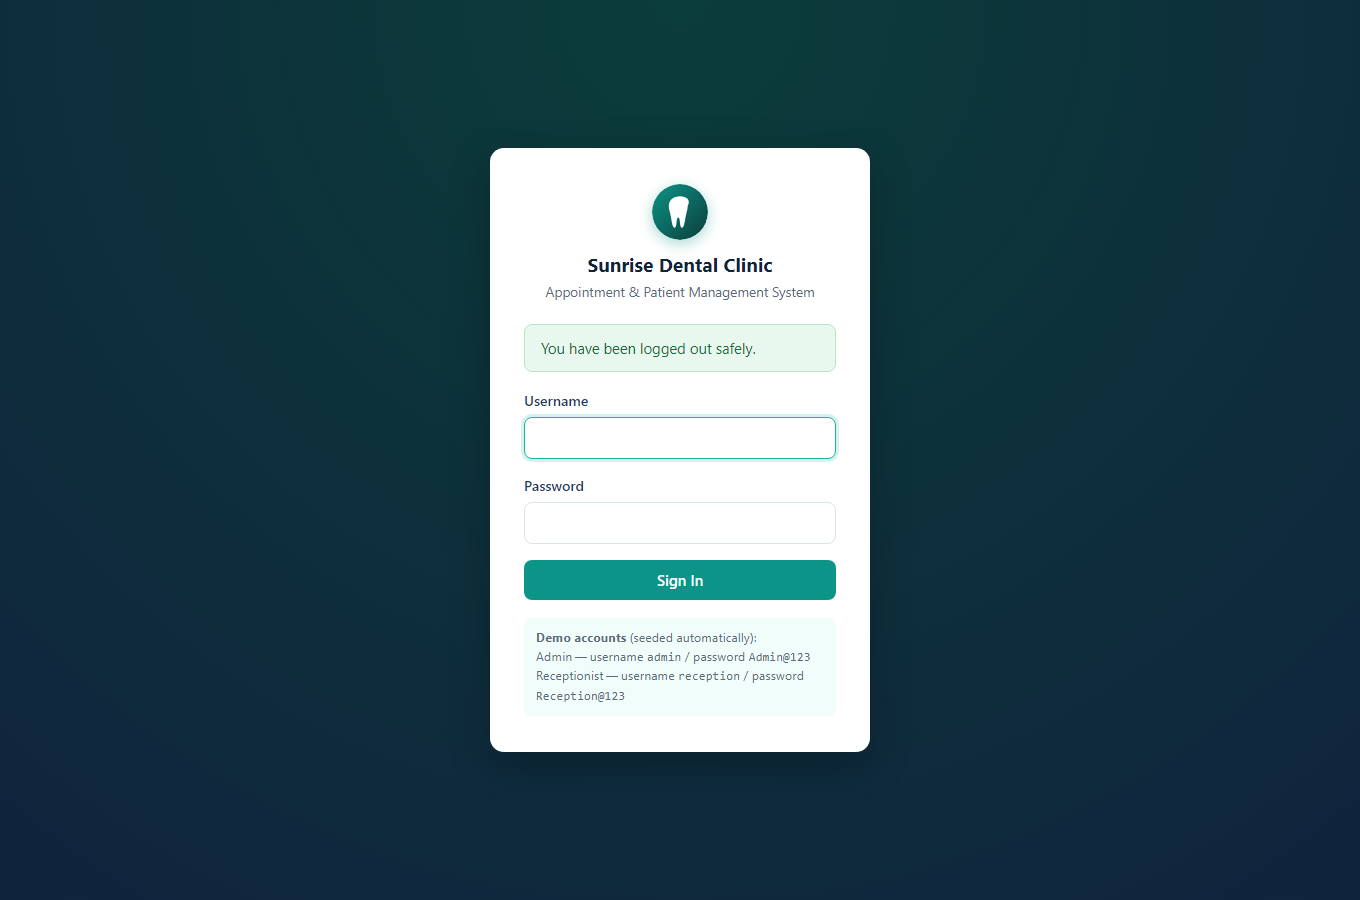
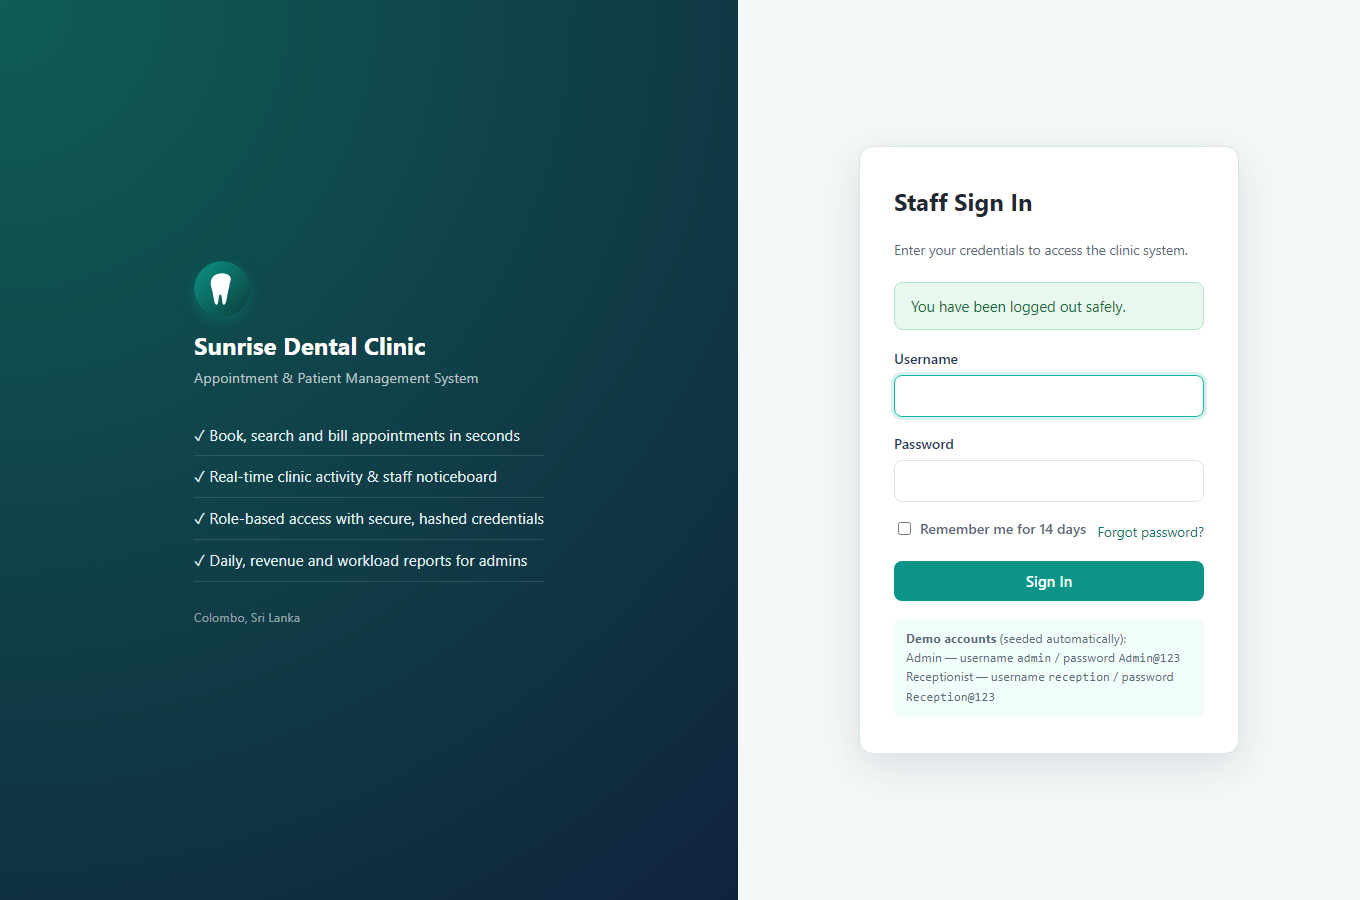
docs: update class diagram, README and screenshots for new features
Class diagram regenerated to include StaffNotice, StaffNotification,
StaffNotificationObserver, StaffNoticeService and SettingsService.
README documents the new features, updated design pattern table (third
Observer), and a "Comparative analysis" section summarising why they
were added. All screenshots recaptured against the current build (new
login page, nav bell, new dashboard tiles) plus 5 new screenshots for
the noticeboard, bell dropdown, cancellation flow and Settings page.

diff --git a/docs/terminal-test-results.html b/docs/terminal-test-results.html
@@ -23,7 +23,7 @@
   .dot { width: 12px; height: 12px; border-radius: 50%; }
   .red { background: #ef4444; } .yellow { background: #f59e0b; } .green { background: #22c55e; }
   .titletext { color: #94a3b8; font-size: 13px; margin-left: 12px; }
-  .body { padding: 20px 24px; font-size: 14px; line-height: 1.65; color: #e2e8f0; white-space: pre; }
+  .body { padding: 20px 24px; font-size: 13px; line-height: 1.55; color: #e2e8f0; white-space: pre; }
   .prompt { color: #34d399; }
   .cmd { color: #e2e8f0; }
   .ok { color: #34d399; font-weight: bold; }
@@ -54,23 +54,33 @@ Running lk.icbt.dentalclinic.service.pattern.BillBuilderTest
 <span class="ok">Tests run: 3, Failures: 0, Errors: 0, Skipped: 0</span> - BillBuilderTest
 Running lk.icbt.dentalclinic.service.pattern.ReportFactoryTest
 <span class="ok">Tests run: 2, Failures: 0, Errors: 0, Skipped: 0</span> - ReportFactoryTest
+Running lk.icbt.dentalclinic.service.pattern.StaffNotificationObserverTest
+<span class="ok">Tests run: 2, Failures: 0, Errors: 0, Skipped: 0</span> - StaffNotificationObserverTest
 Running lk.icbt.dentalclinic.service.AppointmentServiceTest
-<span class="ok">Tests run: 6, Failures: 0, Errors: 0, Skipped: 0</span> - AppointmentServiceTest
+<span class="ok">Tests run: 7, Failures: 0, Errors: 0, Skipped: 0</span> - AppointmentServiceTest
 Running lk.icbt.dentalclinic.service.BillingServiceTest
 <span class="ok">Tests run: 2, Failures: 0, Errors: 0, Skipped: 0</span> - BillingServiceTest
+Running lk.icbt.dentalclinic.service.SettingsServiceTest
+<span class="ok">Tests run: 3, Failures: 0, Errors: 0, Skipped: 0</span> - SettingsServiceTest
+Running lk.icbt.dentalclinic.service.StaffNoticeServiceTest
+<span class="ok">Tests run: 2, Failures: 0, Errors: 0, Skipped: 0</span> - StaffNoticeServiceTest
 Running lk.icbt.dentalclinic.web.AppointmentWebControllerTest
 <span class="ok">Tests run: 7, Failures: 0, Errors: 0, Skipped: 0</span> - AppointmentWebControllerTest
+Running lk.icbt.dentalclinic.web.SettingsWebControllerTest
+<span class="ok">Tests run: 3, Failures: 0, Errors: 0, Skipped: 0</span> - SettingsWebControllerTest
+Running lk.icbt.dentalclinic.web.StaffNoticeWebControllerTest
+<span class="ok">Tests run: 4, Failures: 0, Errors: 0, Skipped: 0</span> - StaffNoticeWebControllerTest
 Running lk.icbt.dentalclinic.api.AppointmentApiIntegrationTest
 <span class="ok">Tests run: 5, Failures: 0, Errors: 0, Skipped: 0</span> - AppointmentApiIntegrationTest
 
 <span class="divider">-------------------------------------------------------</span>
 <span class="label">Results:</span>
 
-<span class="ok">Tests run: 36, Failures: 0, Errors: 0, Skipped: 0</span>
+<span class="ok">Tests run: 51, Failures: 0, Errors: 0, Skipped: 0</span>
 
 <b><span class="ok">BUILD SUCCESS</span></b>
-<span class="dim">Total time:  14.207 s</span>
-<span class="dim">Finished at: 2026-08-19T00:41:47+05:30</span>
+<span class="dim">Total time:  16.842 s</span>
+<span class="dim">Finished at: 2026-08-19T01:51:47+05:30</span>
 </div>
 </div>
 </body>

diff --git a/docs/capture-screenshots.js b/docs/capture-screenshots.js
@@ -145,6 +145,56 @@ const OUT = path.join(__dirname, 'screenshots');
     await page.click('input[type=checkbox]').catch(() => {});
     await shot('20-rest-api-bill-json.png');
 
+    // 12. Staff Noticeboard - internal staff-to-staff communication (still logged in as reception)
+    await page.goto(`${BASE}/notices`);
+    await page.fill('#message', 'Dr. Nimal Perera is on leave tomorrow afternoon - please avoid booking new slots after 1pm.');
+    await page.check('input[name=urgent]');
+    await page.click('button:has-text("Post Notice")');
+    await page.waitForLoadState('networkidle');
+    await shot('23-staff-noticeboard.png');
+
+    // 13. Notification bell dropdown (live activity feed, populated by the
+    // StaffNotificationObserver every time an appointment is booked/cancelled)
+    await page.click('.notif-bell summary');
+    await page.waitForTimeout(200);
+    await shot('24-notification-bell.png');
+
+    // 14. Register a second appointment, then cancel it, to demonstrate the
+    // cancellation flow and its resulting staff notification
+    await page.goto(`${BASE}/appointments/new`);
+    await page.fill('#patientName', 'Chamari Fernando');
+    await page.fill('#address', 'Colombo 05');
+    await page.fill('#contactNumber', '0765554433');
+    await page.selectOption('#dentistId', { index: 2 });
+    await page.selectOption('#treatmentTypeId', { index: 2 });
+    await page.fill('#appointmentDate', futureDate);
+    await page.fill('#appointmentTime', '14:00');
+    await page.click('#btnSaveAppointment');
+    await page.waitForLoadState('networkidle');
+    page.once('dialog', d => d.accept());
+    await page.click('button:has-text("Cancel Appointment")');
+    await page.waitForLoadState('networkidle');
+    await shot('25-appointment-cancelled.png');
+
+    // 15. Settings (admin only) - log back in as admin
+    await page.goto(`${BASE}/dashboard`);
+    await page.click('#btnLogout');
+    await page.waitForLoadState('networkidle');
+    await page.fill('#username', 'admin');
+    await page.fill('#password', 'Admin@123');
+    await page.click('button[type=submit]');
+    await page.waitForLoadState('networkidle');
+
+    await page.goto(`${BASE}/settings`);
+    await shot('26-settings-page.png');
+
+    await page.fill('#dName', 'Dr. Isuru Bandara');
+    await page.fill('#dSpec', 'Pediatric Dentistry');
+    await page.fill('#dContact', '0771230000');
+    await page.click('button:has-text("Add Dentist")');
+    await page.waitForLoadState('networkidle');
+    await shot('27-settings-dentist-added.png');
+
     await browser.close();
     console.log('All screenshots captured to', OUT);
 })();

diff --git a/README.md b/README.md
@@ -17,6 +17,7 @@ git clone https://github.com/AgentS10/sunrise-dental-clinic.git
 ## Contents
 
 - [Functionality → brief mapping](#functionality--brief-mapping)
+- [Comparative analysis](#comparative-analysis)
 - [Architecture](#architecture)
 - [Design patterns implemented](#design-patterns-implemented)
 - [Running the application](#running-the-application)
@@ -37,6 +38,23 @@ git clone https://github.com/AgentS10/sunrise-dental-clinic.git
 | 5 | Help Section | `/help` — step-by-step guide for new staff. |
 | 6 | Exit System | Logout (session invalidated, CSRF-protected POST). |
 | *extra* | Reports | `/reports` (admin-only) — Daily Appointments, Revenue, and Dentist Workload reports over a date range. |
+| *extra* | Staff communication | `/notices` — an internal noticeboard so staff can coordinate with each other (shift handovers, reminders), plus a live notification bell (top-right on every page) showing recent clinic activity. See [Comparative analysis](#comparative-analysis) below for why this was added. |
+| *extra* | Settings | `/settings` (admin-only) — manage dentists and treatment types without editing code/restarting the app. |
+| *extra* | Cancel appointment | `/appointments/{number}/cancel` — CSRF-protected, confirmed, notifies staff via the bell. |
+
+## Comparative analysis
+
+Real dental practice management platforms (Open Dental, Dentrix Ascend, CareStack, Curve
+Dental, iDental Soft) were reviewed to sanity-check this system's feature set against what a
+working clinic actually expects — full detail and citations are in the assessment report's
+Task B comparative analysis section. In short: internal staff coordination and a live
+activity feed (found in iDental Soft and Dental Intelligence) and admin-configurable clinic
+settings without a redeploy (standard in every platform reviewed) were both missing from the
+brief's literal functionality list but are expected in a real system, so they were added. A
+"remember me" login option was added to match the persistent-session pattern most of these
+platforms use; two-factor authentication (offered by Curve Dental, absent from Open Dental)
+was deliberately **not** added — it needs an SMS/authenticator provider this environment
+doesn't have, so it's documented as a known gap rather than faked.
 
 **Design assumptions** (per the brief's invitation to make reasonable assumptions):
 - Patients are registered **once** and reused across visits (matched by contact number), rather
@@ -46,6 +64,10 @@ git clone https://github.com/AgentS10/sunrise-dental-clinic.git
   table) since no real gateway credentials are available in this environment — the `Observer`
   pattern used means swapping in a real gateway (Twilio, JavaMail) is a one-class change.
 - Returning patients with 3+ completed visits receive a 10% loyalty discount on the treatment fee.
+- The notification bell shows the clinic's most recent activity to *every* logged-in staff
+  member rather than tracking per-user read/unread state (which would need a join table keyed
+  by staff account) — a reasonable simplification for a small front-desk team sharing one
+  system, noted as a natural next step for a larger deployment.
 
 ## Architecture
 
@@ -86,7 +108,7 @@ sharing the same service/data layer — the API can be consumed by any external 
 | **Strategy** | [`BillingStrategy`](src/main/java/lk/icbt/dentalclinic/service/pattern/BillingStrategy.java) + `StandardBillingStrategy` + `ReturningPatientDiscountStrategy` | Interchangeable pricing algorithms without `if/else` chains in the billing service; new pricing rules plug in as new classes. |
 | **Factory** | [`BillingStrategyFactory`](src/main/java/lk/icbt/dentalclinic/service/pattern/BillingStrategyFactory.java) | Selects the correct billing strategy at runtime based on patient visit history. |
 | **Factory Method** | [`ReportFactory`](src/main/java/lk/icbt/dentalclinic/service/pattern/ReportFactory.java) + `Report` interface | Report generation (Daily Appointments / Revenue / Dentist Workload) is requested by type, hiding which concrete report class is built. |
-| **Observer** | [`AppointmentEventPublisher`](src/main/java/lk/icbt/dentalclinic/service/pattern/AppointmentEventPublisher.java) + `NotificationObserver` + `AuditLogObserver` | Decouples "an appointment was booked" from "what happens next" (simulated SMS, audit log) — new reactions plug in without touching `AppointmentService`. |
+| **Observer** | [`AppointmentEventPublisher`](src/main/java/lk/icbt/dentalclinic/service/pattern/AppointmentEventPublisher.java) + `NotificationObserver` + `AuditLogObserver` + [`StaffNotificationObserver`](src/main/java/lk/icbt/dentalclinic/service/pattern/StaffNotificationObserver.java) | Decouples "an appointment was booked/cancelled" from "what happens next" (simulated SMS, audit log, staff bell notification) — a third observer was added later for the notification bell with **zero changes** to `AppointmentService` or the other two observers, exactly demonstrating the pattern's extensibility. |
 | **Builder** | [`BillBuilder`](src/main/java/lk/icbt/dentalclinic/service/pattern/BillBuilder.java) | Fluent, validated assembly of a `Bill` (derives the bill number, timestamps it) instead of a large telescoping constructor. |
 | **Facade** | [`ClinicFacade`](src/main/java/lk/icbt/dentalclinic/service/ClinicFacade.java) | Single simplified entry point over five collaborating services/repositories, keeping the presentation-layer controllers thin. |
 | **DAO / Repository** | `repository/*Repository` (Spring Data JPA) | Standard data-access abstraction over the H2 database. |
@@ -165,13 +187,13 @@ responding with JSON). A sample:
 
 ```
 src/main/java/lk/icbt/dentalclinic/
-├── domain/            JPA entities
+├── domain/            JPA entities (incl. StaffNotice, StaffNotification)
 ├── repository/         Spring Data JPA repositories
-├── service/            Business logic + ClinicFacade
+├── service/            Business logic + ClinicFacade, StaffNoticeService, SettingsService
 ├── service/pattern/     Design pattern implementations
 ├── security/            Spring Security UserDetailsService
 ├── config/              Security config, data seeder
-├── web/                 Thymeleaf MVC controllers
+├── web/                 Thymeleaf MVC controllers (incl. Settings, Noticeboard, nav bell)
 ├── api/                 REST controllers + error handling
 ├── dto/                 Request/response DTOs
 └── exception/           Domain exceptions
